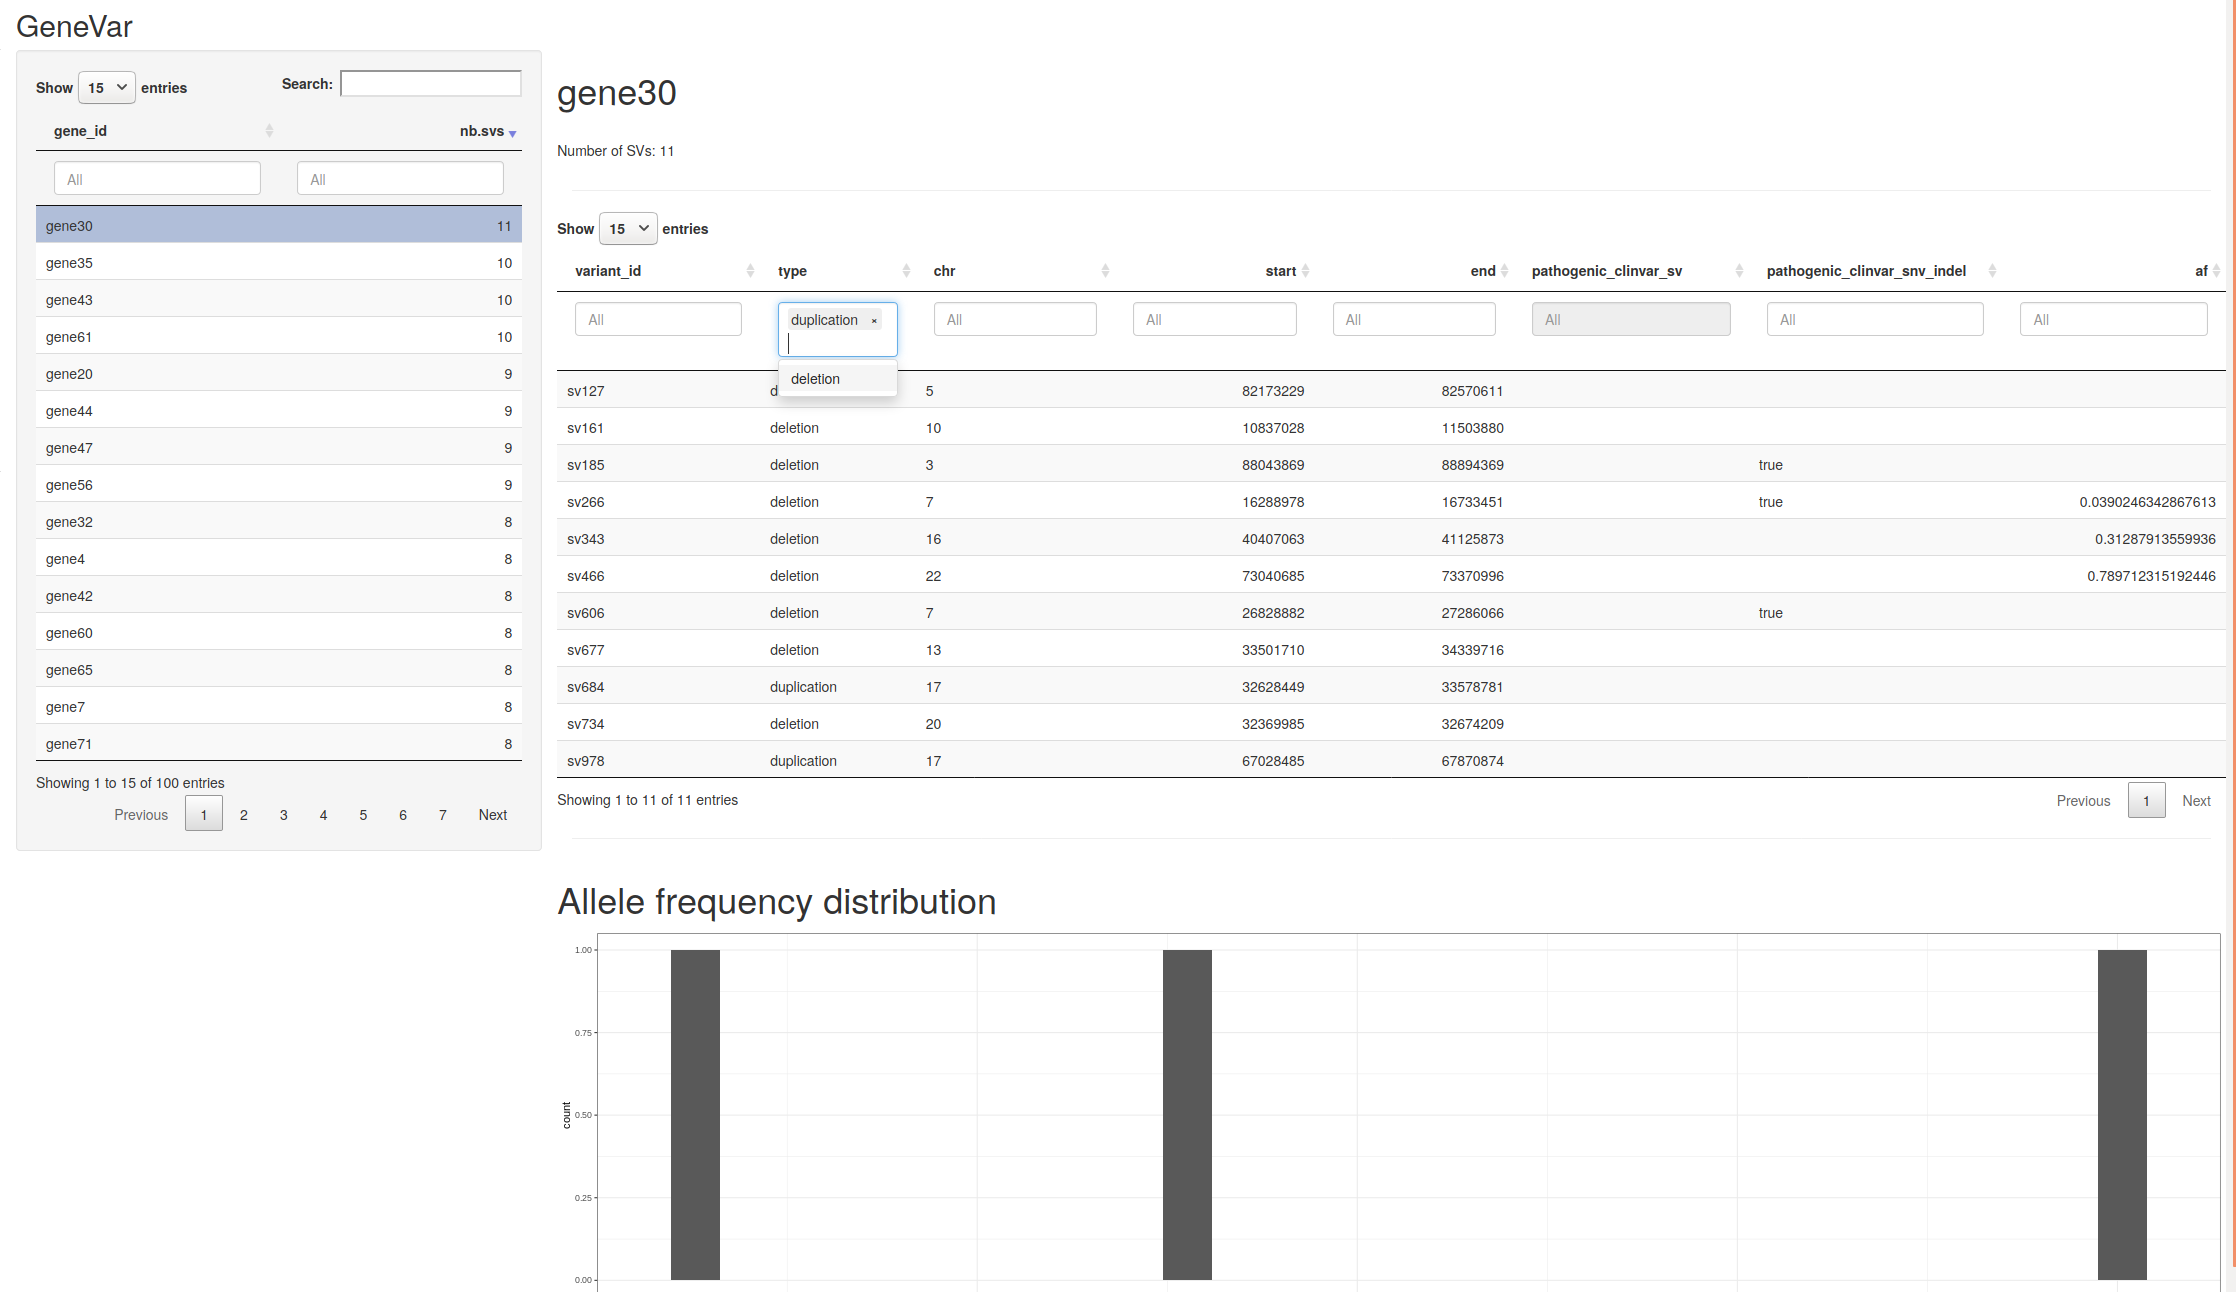
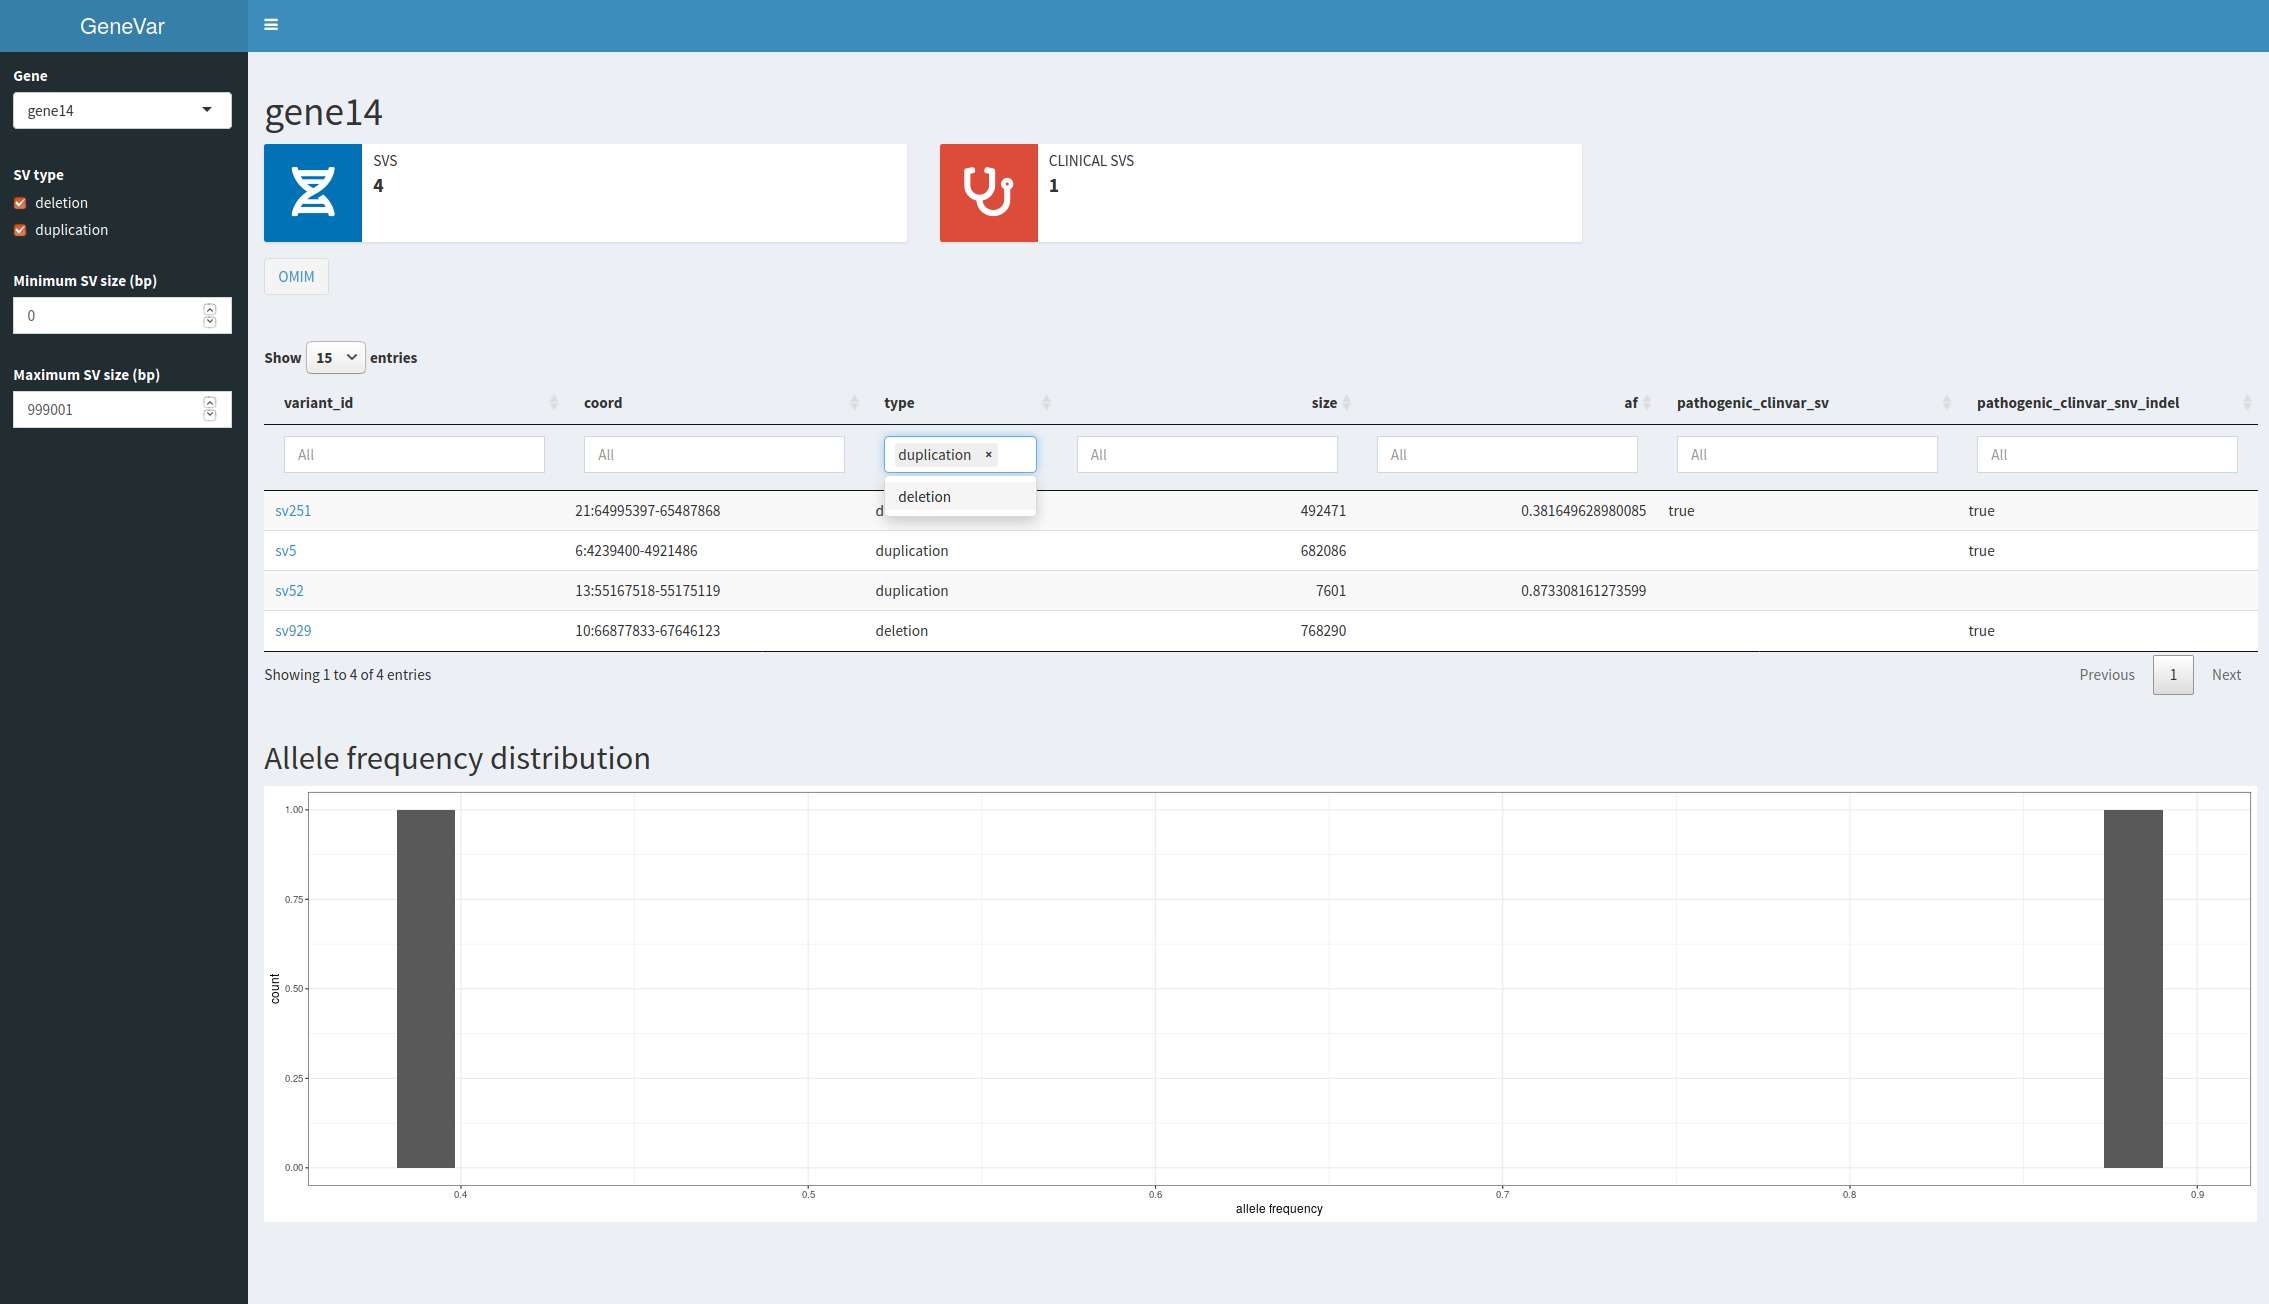
more doc about the shiny app

diff --git a/README.md b/README.md
@@ -133,9 +133,9 @@ Some resources might require matching gene names.
 
   
 Methods:
-TBD.
-One option could be to use R+Shiny to deploy an app where the user can select a gene and visualize the SVs and stats.
-Another option could be to make a static website that could be deployed on this GitHub repo (e.g. [R-Markdown website](https://bookdown.org/yihui/rmarkdown/rmarkdown-site.html) where each "gene" page automatically produced by script of our doing).
+An application is implemented in R+Shiny where the user can select a gene and some filtering criteria for SVs (size and type).
+A page is loaded with a summary of the SVs overlapping the gene, a table listing all annotated SVs, and a graph showing the distribution of allele frequencies.
+
 
 ## Please cite our work -- here is the ICMJE Standard Citation:
 

diff --git a/shinyapp/README.md b/shinyapp/README.md
@@ -5,6 +5,7 @@ This will require R with the following packages:
 - dplyr
 - DT
 - ggplot2
+- shinydashboard
 
 A docker with these dependencies will be available soon.
 
